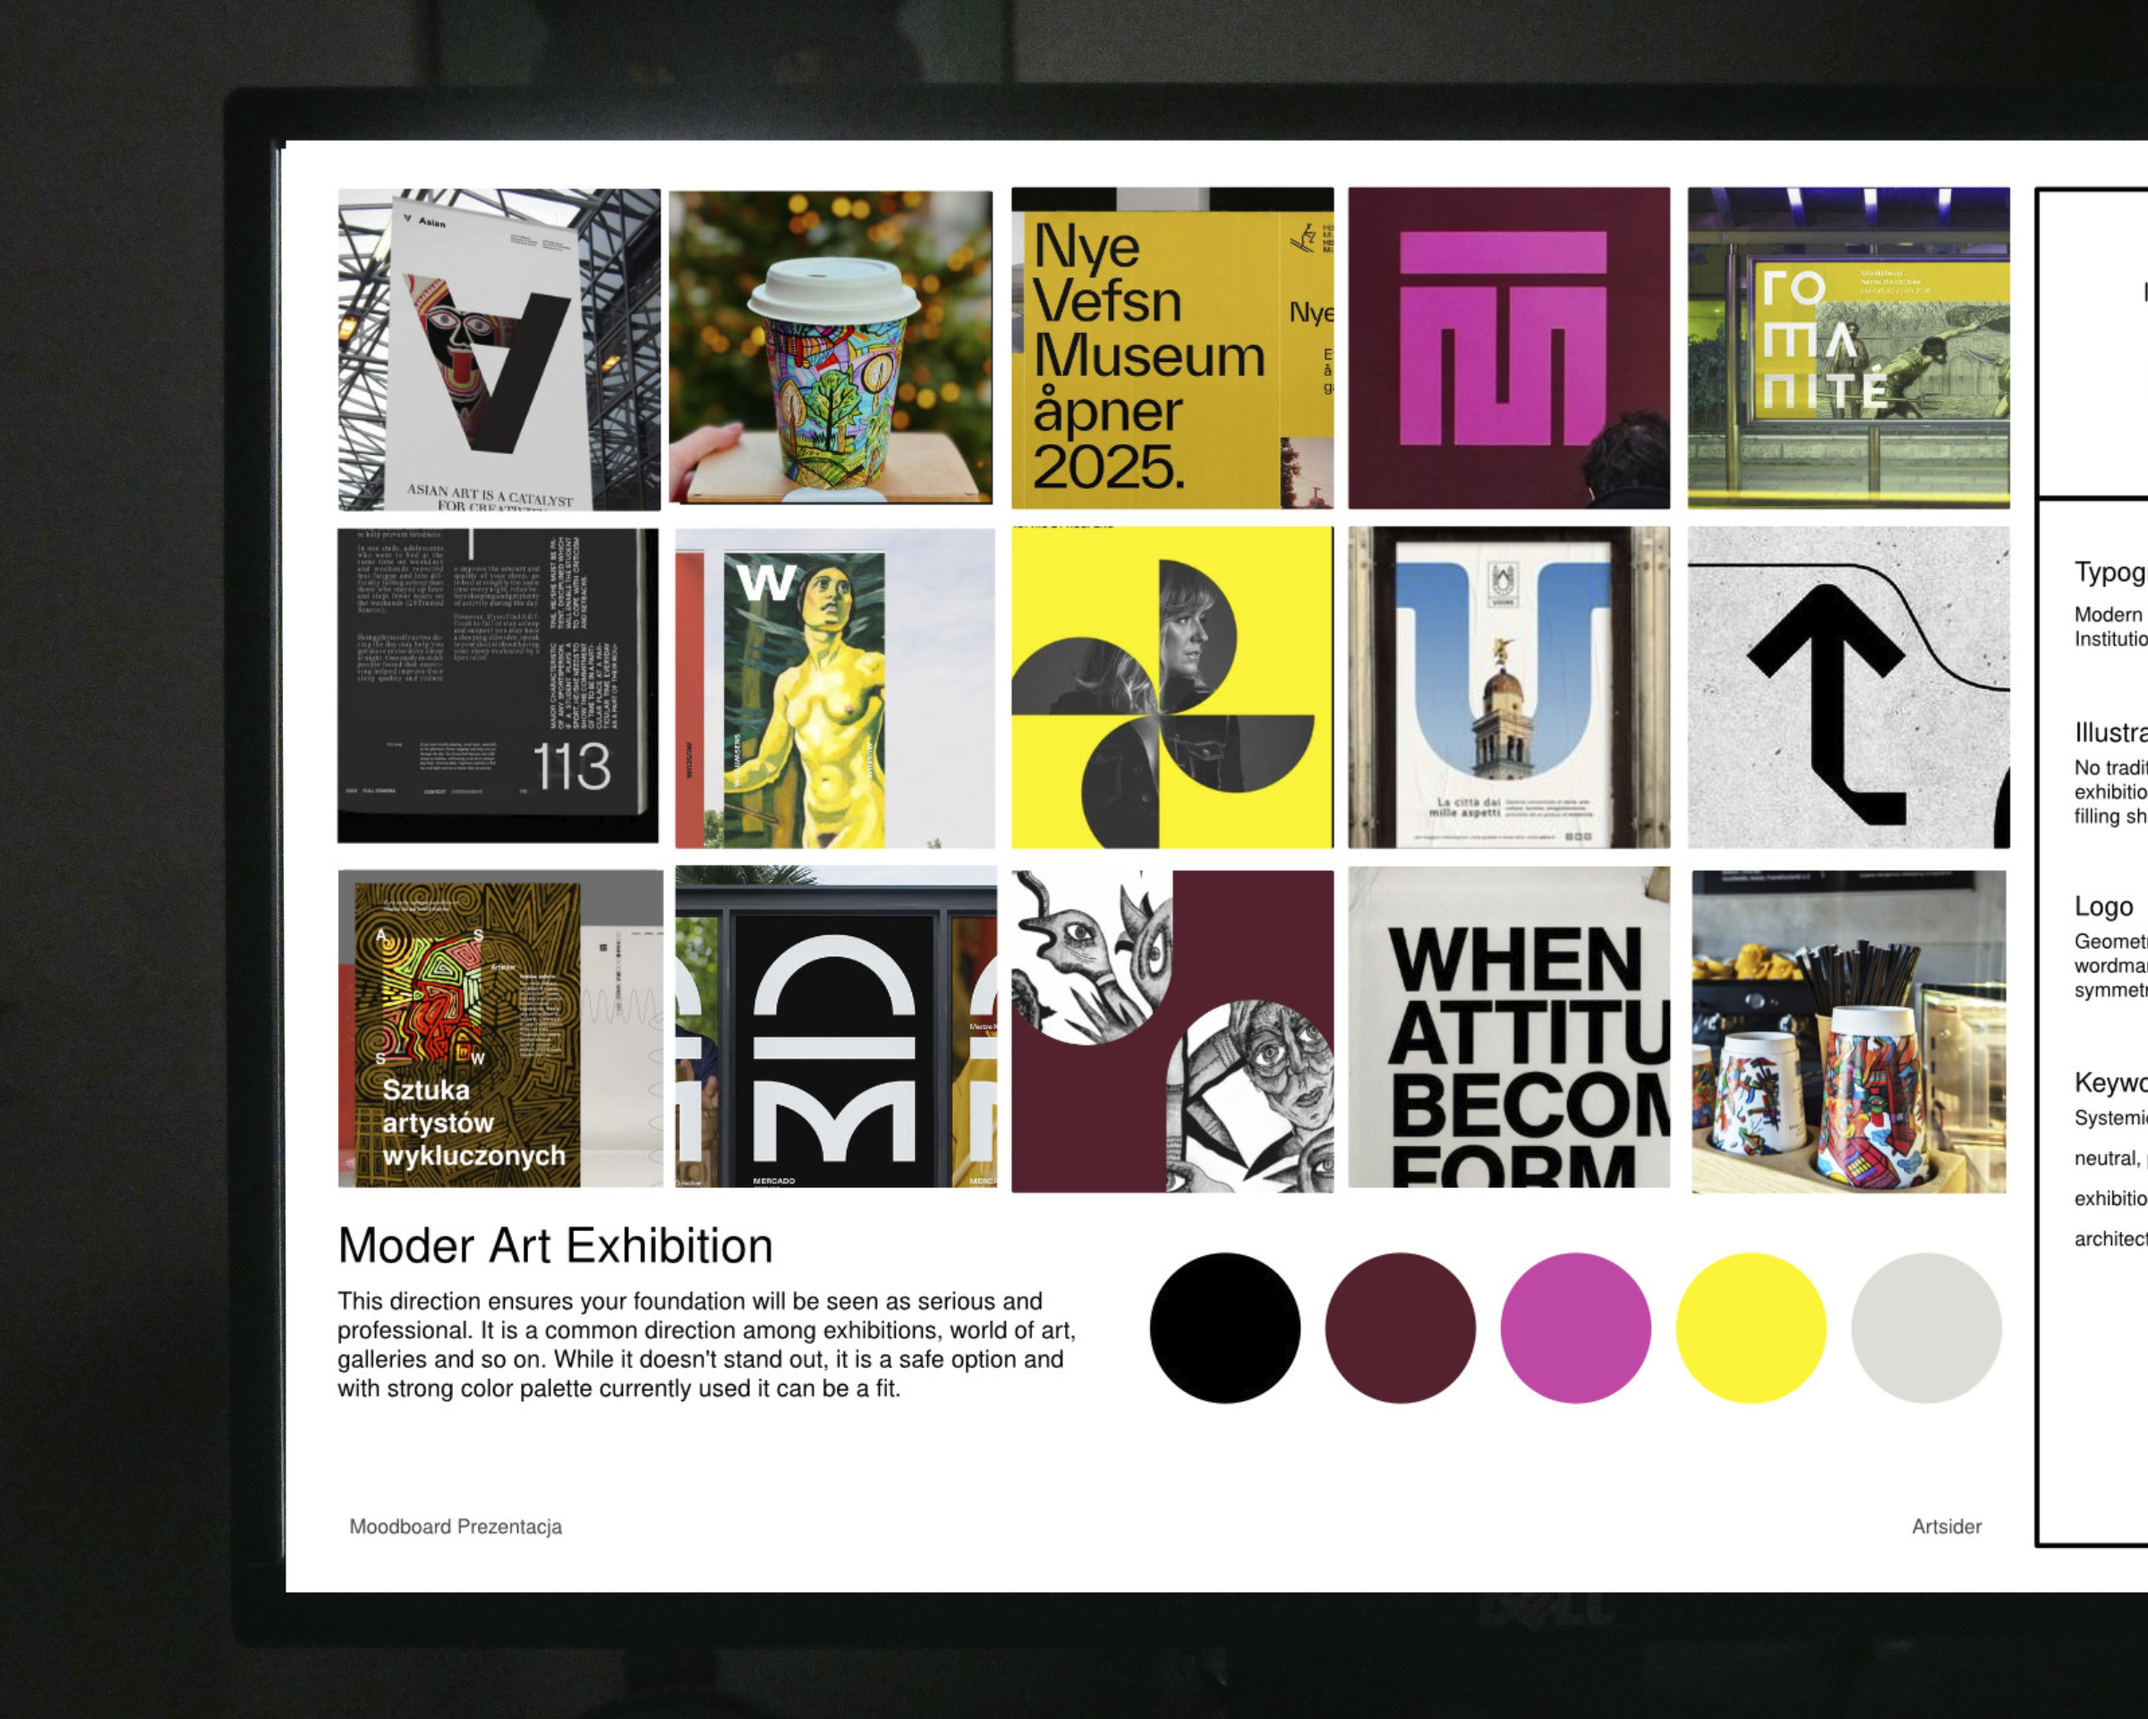
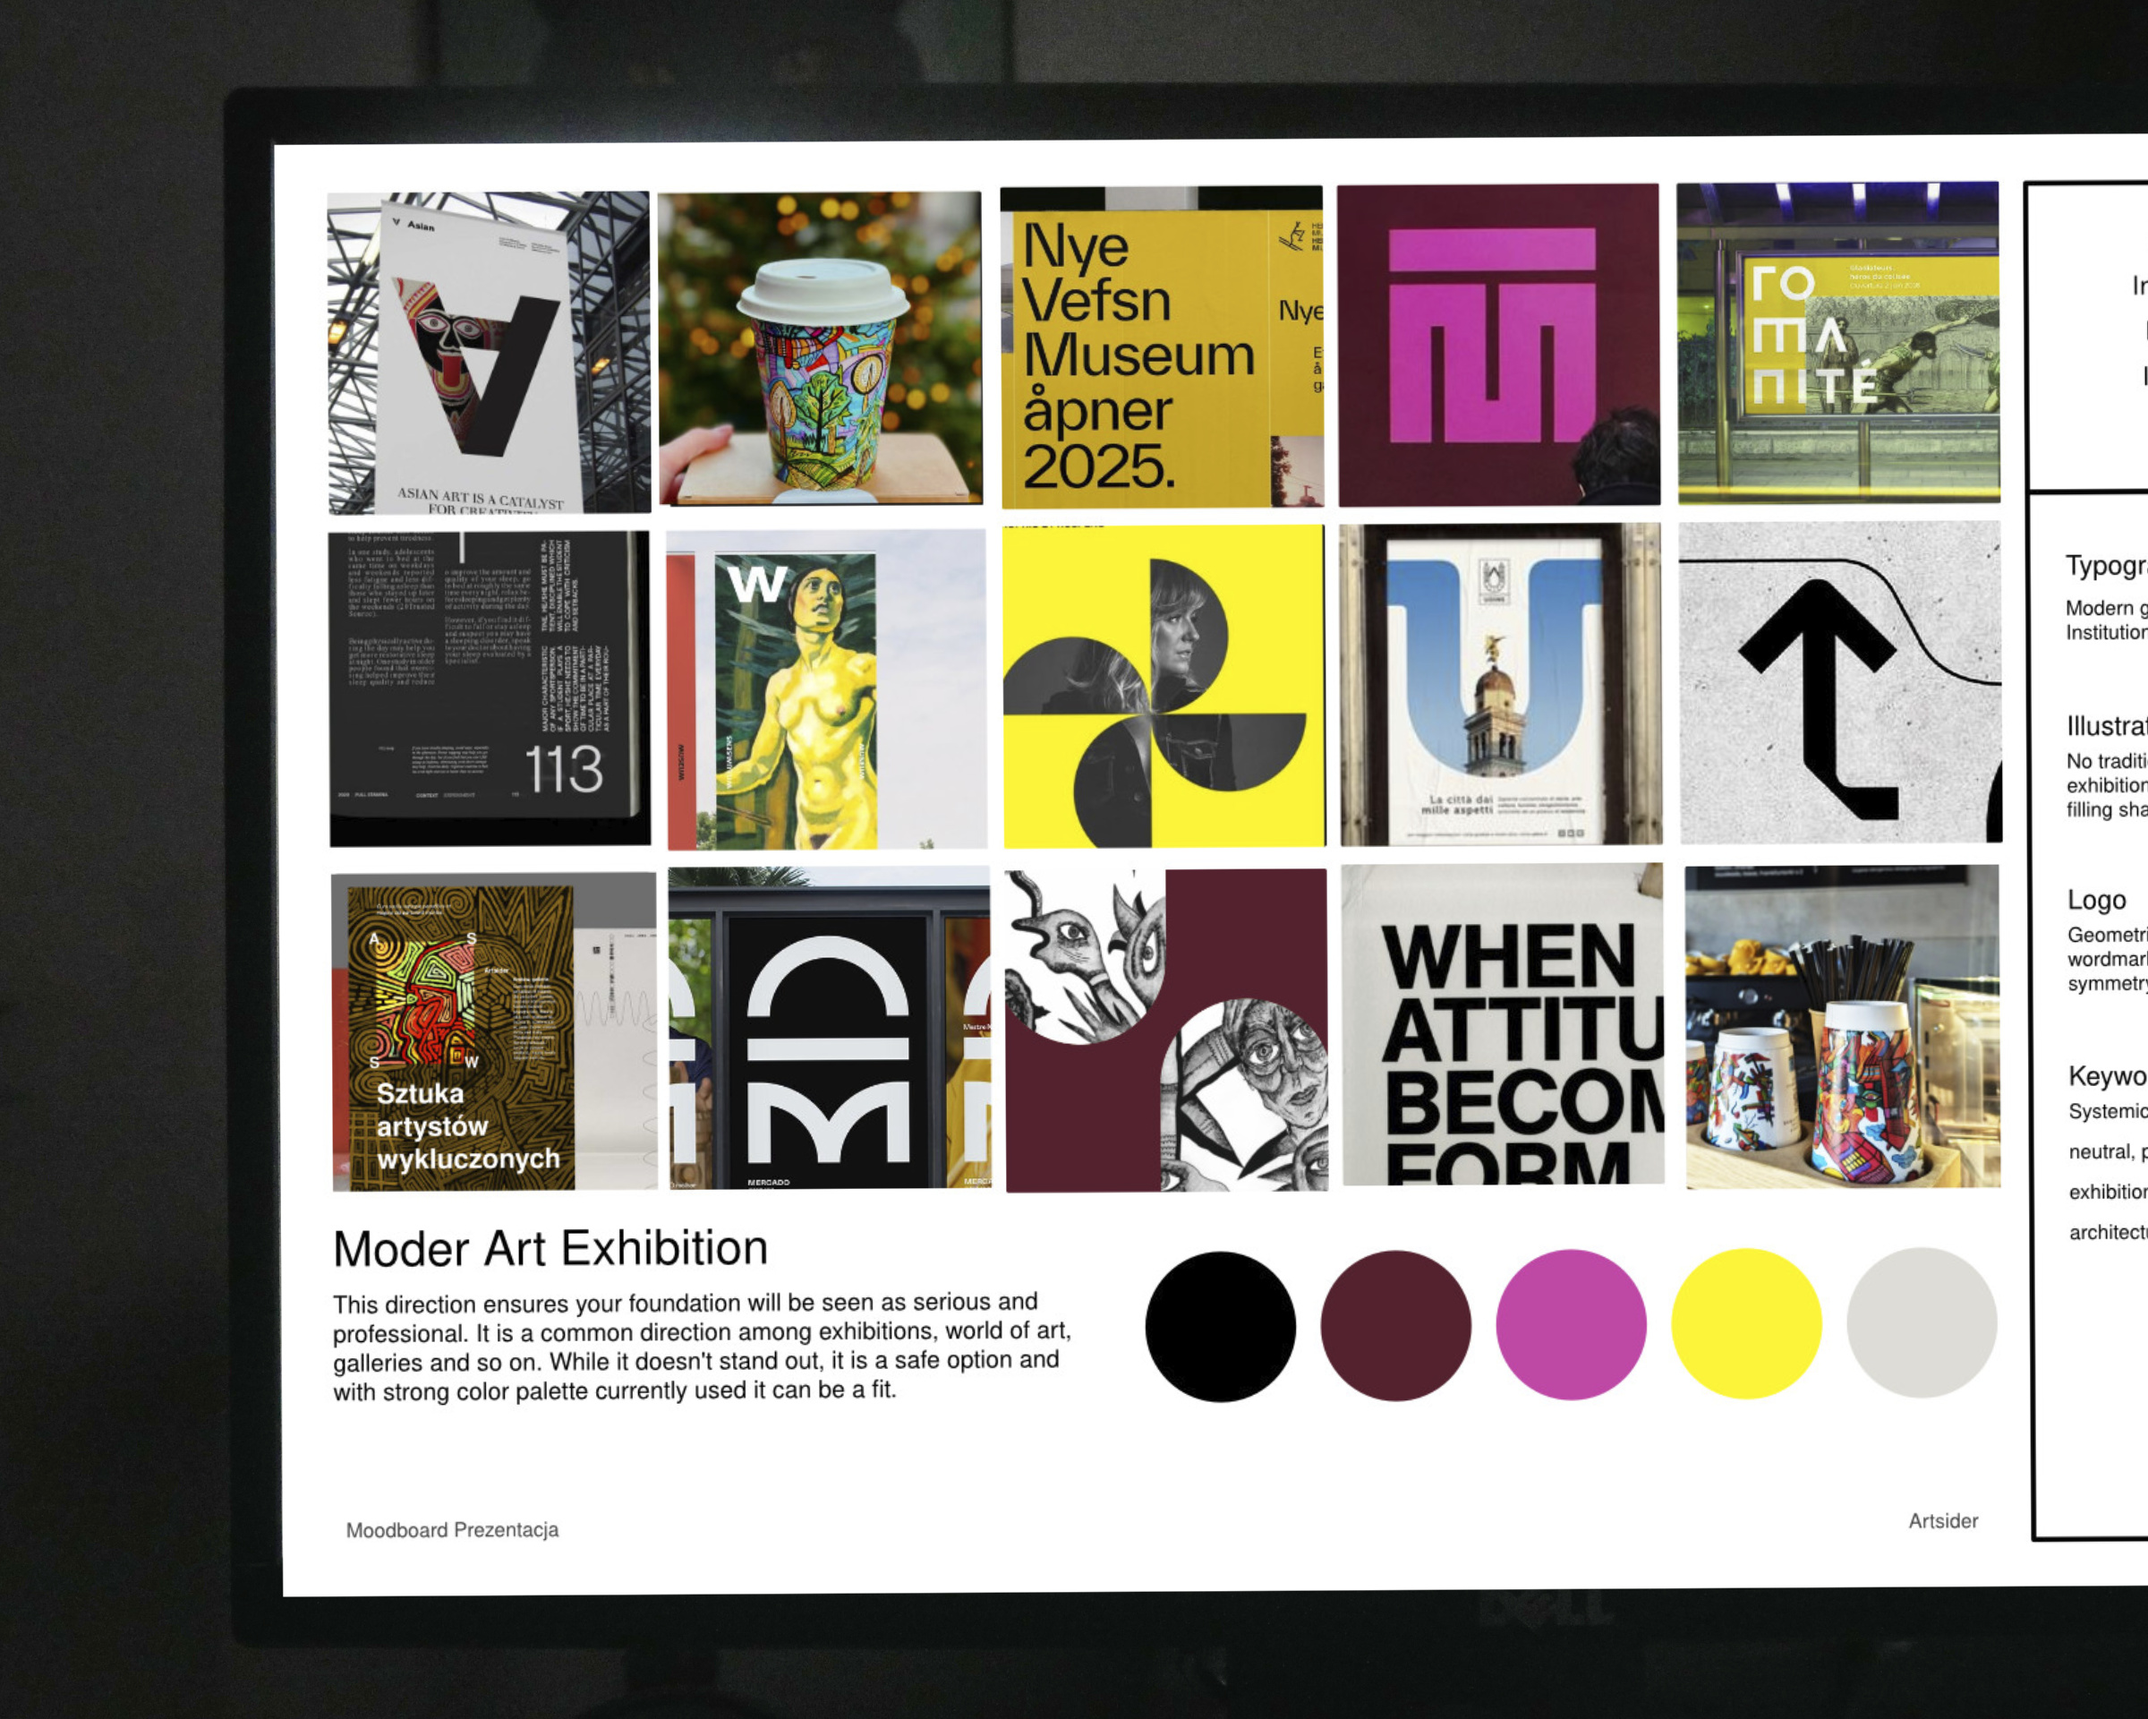
echnicalik ready website

diff --git a/process.html b/process.html
@@ -64,7 +64,7 @@
 
 <div class="grid-container process-text black">
     <div class="grid-item process-img">
-        <img src="process/sketching.jpg">
+        <img src="about-me/process-3.jpg">
     </div>
     <div class="grid-item process-description">
         <div class="text-right-sided white">
@@ -90,13 +90,13 @@
         </div>
     </div>
     <div class="grid-item process-img">
-        <img src="images/new/ft_design.jpg">
+        <img src="about-me/process-4.jpg">
     </div>
 </div>
 
 <div class="grid-container process-text black">
     <div class="grid-item process-img">
-        <img src="images/new/ft_design.jpg">
+        <img src="about-me/process-5.jpg">
     </div>
     <div class="grid-item process-description">
         <div class="text-right-sided white">
